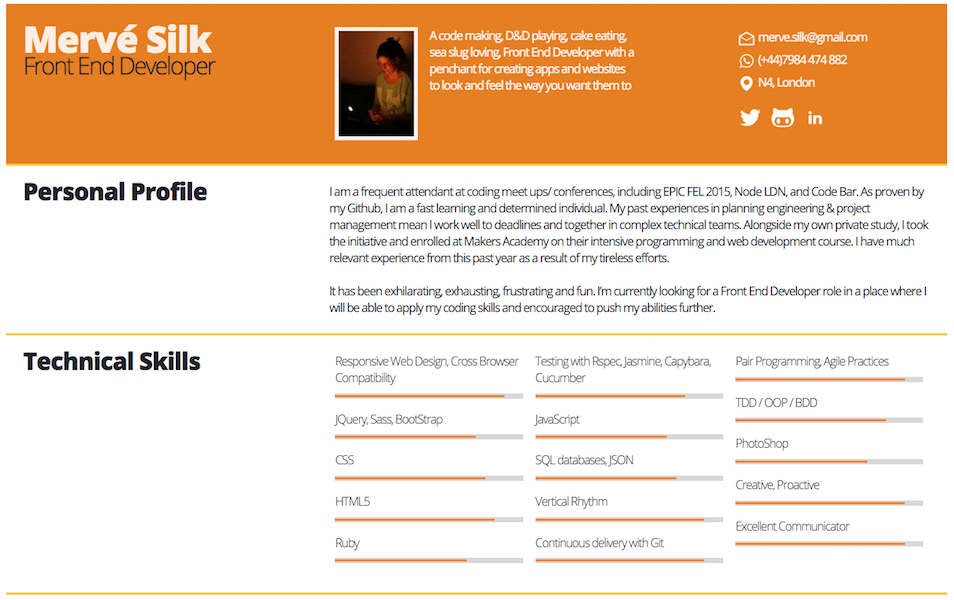
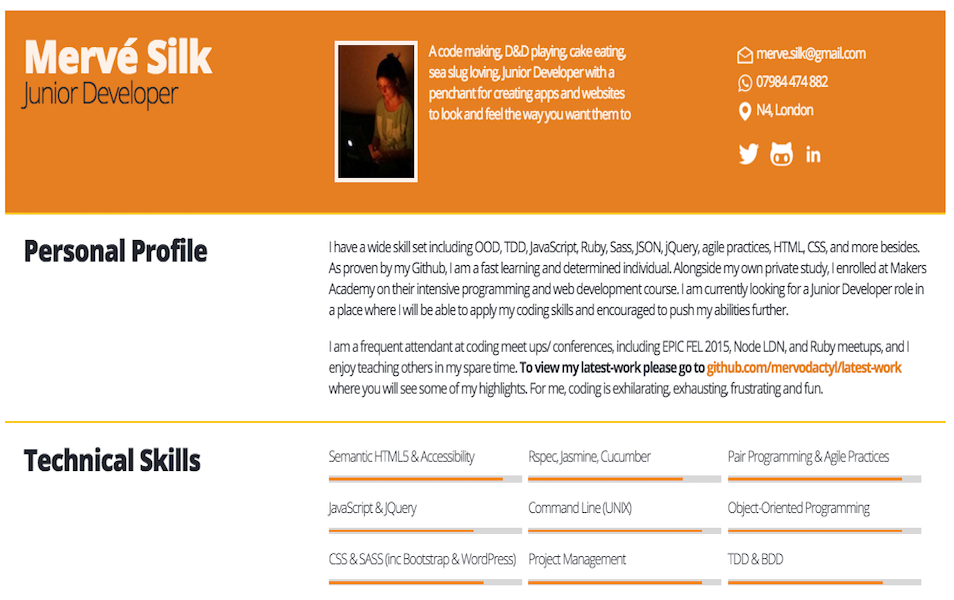
Formats skill bars and updates text

diff --git a/index.html b/index.html
@@ -38,8 +38,8 @@
             <h2>Personal Profile</h2>
           </div>
           <div class="column-8">
-            <p>I have a wide skill set including OOD, TDD, JavaScript, Ruby, Sass, JSON, jQuery, agile practices, HTML, CSS, and more besides. As proven by my Github, I am a fast learning and determined individual. Alongside my own private study, I enrolled at Makers Academy on their intensive programming and web development course. I am currently looking for a Front End Developer role in a place where I will be able to apply my coding skills and encouraged to push my abilities further</p>
-            <p class="divide-small">I am a frequent attendant at coding meet ups/ conferences, including EPIC FEL 2015, Node LDN, and Rails meetups and I enjoy teaching others in my spare time. To view <span>My Code Projects</span> please go to <span>www.github.com/Mervodactyl/CV</span> where you will see some of my highlights. For me, coding is exhilarating, exhausting, frustrating and fun.</p>
+            <p>I have a wide skill set including OOD, TDD, JavaScript, Ruby, Sass, JSON, jQuery, agile practices, HTML, CSS, and more besides. As proven by my Github, I am a fast learning and determined individual. Alongside my own private study, I enrolled at Makers Academy on their intensive programming and web development course. I am currently looking for a Junior Developer role in a place where I will be able to apply my coding skills and encouraged to push my abilities further.</p>
+            <p class="divide-small">I am a frequent attendant at coding meet ups/ conferences, including EPIC FEL 2015, Node LDN, and Ruby meetups, and I enjoy teaching others in my spare time. <span>To view my latest-work please go to <span><a href="https://github.com/Mervodactyl/latest-work">github.com/mervodactyl/latest-work</a></span></span> where you will see some of my highlights. For me, coding is exhilarating, exhausting, frustrating and fun.</p>
           </div>
         </section>
         <section class="row skills section-highlight">
@@ -49,7 +49,7 @@
           <div class="column-8">
             <ul class="column-4 tech-bars-display">
               <li>
-                <h4>Responsive Web Design & Cross Browser Compatibility</h4>
+                <h4>Semantic HTML5 & Accessibility</h4>
                 <div class="skill-bar">
                   <div class="skill-level-indicator level-ninety"></div>
                 </div>
@@ -61,13 +61,13 @@
                 </div>
               </li>
               <li>
-                <h4>CSS & SASS (inc Bootstrap)</h4>
+                <h4>CSS & SASS (inc Bootstrap & WordPress)</h4>
                 <div class="skill-bar">
                   <div class="skill-level-indicator level-eighty"></div>
                 </div>
               </li>
               <li>
-                <h4>Semantic HTML5</h4>
+                <h4>Visual Testing & QA</h4>
                 <div class="skill-bar">
                   <div class="skill-level-indicator level-eighty-five"></div>
                 </div>
@@ -81,13 +81,13 @@
             </ul>
             <ul class="column-4 tech-bars-display">
               <li>
-                <h4>Testing Frameworks: Rspec, Jasmine, Capybara, Cucumber</h4>
+                <h4>Rspec, Jasmine, Cucumber</h4>
                 <div class="skill-bar">
                   <div class="skill-level-indicator level-eighty"></div>
                 </div>
               </li>
               <li>
-                <h4>Vertical Rhythm, UX Design</h4>
+                <h4>Command Line (UNIX)</h4>
                 <div class="skill-bar">
                   <div class="skill-level-indicator level-ninety"></div>
                 </div>
@@ -99,7 +99,7 @@
                 </div>
               </li>
               <li>
-                <h4>SQL databases, JSON</h4>
+                <h4>Relational Database Design</h4>
                 <div class="skill-bar">
                   <div class="skill-level-indicator level-seventy-five"></div>
                 </div>
@@ -113,31 +113,31 @@
             </ul>
             <ul class="column-4 tech-bars-display">
               <li>
-                <h4>Pair Programming, Kanban Boards, Agile Practices</h4>
+                <h4>Pair Programming & Agile Practices</h4>
                 <div class="skill-bar">
                   <div class="skill-level-indicator level-ninety"></div>
                 </div>
               </li>
               <li>
-                <h4>Excellent Communicator</h4>
+                <h4>Object-Oriented Programming</h4>
                 <div class="skill-bar">
                   <div class="skill-level-indicator level-ninety"></div>
                 </div>
               </li>
               <li>
-                <h4>TDD / OOP / BDD</h4>
+                <h4>TDD & BDD</h4>
                 <div class="skill-bar">
                   <div class="skill-level-indicator level-eighty"></div>
                 </div>
               </li>
               <li>
-                <h4>PhotoShop</h4>
+                <h4>PhotoShop & Typography</h4>
                 <div class="skill-bar">
                   <div class="skill-level-indicator level-seventy"></div>
                 </div>
               </li>
               <li>
-                <h4>Creative, Proactive</h4>
+                <h4>Project Management</h4>
                 <div class="skill-bar">
                   <div class="skill-level-indicator level-ninety"></div>
                 </div>
@@ -176,11 +176,10 @@
                 </div>
                 <div class="column-8 no-padding">
                   <ul class="job-description">
-                    <li>Give consultancy advice to a multinational corporation on how to improve their website design and build and what steps they need to take: <a href="http://www.boraplastik.com.tr/english">Bora Plastics</a></li>
+                    <li>Give consultancy advice to a multinational corporation on how to improve their website design and build and what steps they need to take: <a href="http://www.boraplastik.com.tr/english">Bora Plastics</a></li> are now developing responsive design and improving their UI/UX
                     <li>Create a ticketing site for the established Burlesque dancer <a href="http://www.tabithataboo.com/">Tabitha Taboo</a> and her event: <a href="https://github.com/Mervodactyl/TheSecretDrawingRoom">The Secret Drawing Room</a></li>
-                    <li>Map out and begin app development for Private clients: References available on Request</li>
-                    <li>Give talks to schools both primary and secondary with the aim to encourage young minds into technical fields: <a href="http://www.tufnellpark.islington.sch.uk/">Tuffnel Primary</a> / <a href="http://www.holloway.islington.sch.uk/">Holloway Secondary</a></li>
-                    <li>Continued expansion and commitment to personal coding education</li>
+                    <li>Give talks to schools both <a href="http://www.tufnellpark.islington.sch.uk/">Primary</a> and <a href="http://www.holloway.islington.sch.uk/">Secondary</a> about STEM careers, increased applications into technical fields this year as a result</li>
+                    <li>Aid a social enterprise <a href="http://hardedgesthestories.com/">campaign</a> who needed more flexibility with their site despite constraints, they are now following my recommendation and moving onto a more flexible hosting platform</li>
                   </ul>
                 </div>
               </div>
@@ -189,7 +188,7 @@
                   <p><span class="bold">Highlights</span></p>
                 </div>
                 <div class="column-8 no-padding">
-                  <p class="job-description">Being able to view my work history on GitHub and see how far I've progressed in such a short time frame through helping others via volunteer teaching and my own tireless perseverance</p>
+                  <p class="job-description">Working as a Consultant to both a social enterprise campaign and multinational corporation, being able to view my work history on GitHub and see how far I've progressed in such a short time frame though helping others and my own tireless perseverance</p>
                 </div>
               </div>
             </div>
@@ -358,7 +357,7 @@
               <p><span class="bold">Period:</span> Aug 14 - Sept 15</p>
               <p class="divide-small"><span class="bold">Link:</span><a href="http://www.makersacademy.com/"> MA</a></p>
               </br>
-              <p>Programming Bootcamp. Highly selective 12 week Web Development programme, with interview exam based entry. Focused learning on best practices across the board including TDD and OOP, Front and Backend, agile formats. Developed self reliance in the field of code. Decided to fully commit to code and spent the last year developing new skill set and focusing on Front End Development - CSS3, HTML5, JavaScript etc. Continued expansion and commitment to personal coding education</p>
+              <p>Programming Bootcamp. Highly selective 12 week Web Development programme, with interview exam based entry. Focused learning on best practices across the board including TDD and OOP, Front and Backend, agile formats. Decided to fully commit to code and spent the last year developing new skill set</p>
             </div>
             <div class="row top-buffer">
               <h3>Royal Holloway, University of London</h3>
@@ -376,7 +375,7 @@
             <h2>Interests</h2>
           </div>
           <div class="column-8">
-            <p class="divide-small">In my spare time you will find me writing readable, maintainable, tested code. You will also find me shamelessly feeding my book addiction, sketching on my art pad, mastering Wing Chun Kung Fu, or swinging from an Aerial hoop in Circus school. If given the tiniest opportunity, I will tell you why Digimon is superior to Pokémon</p>
+            <p class="divide-small">In my spare time you will find me writing readable, maintainable, tested code. You will also find me shamelessly feeding my book addiction, sketching, mastering Wing Chun Kung Fu, or swinging from an Aerial hoop in Circus school. If given the tiniest opportunity, I will tell you why Digimon is superior to Pokémon</p>
           </div>
         </section>
       </main>
